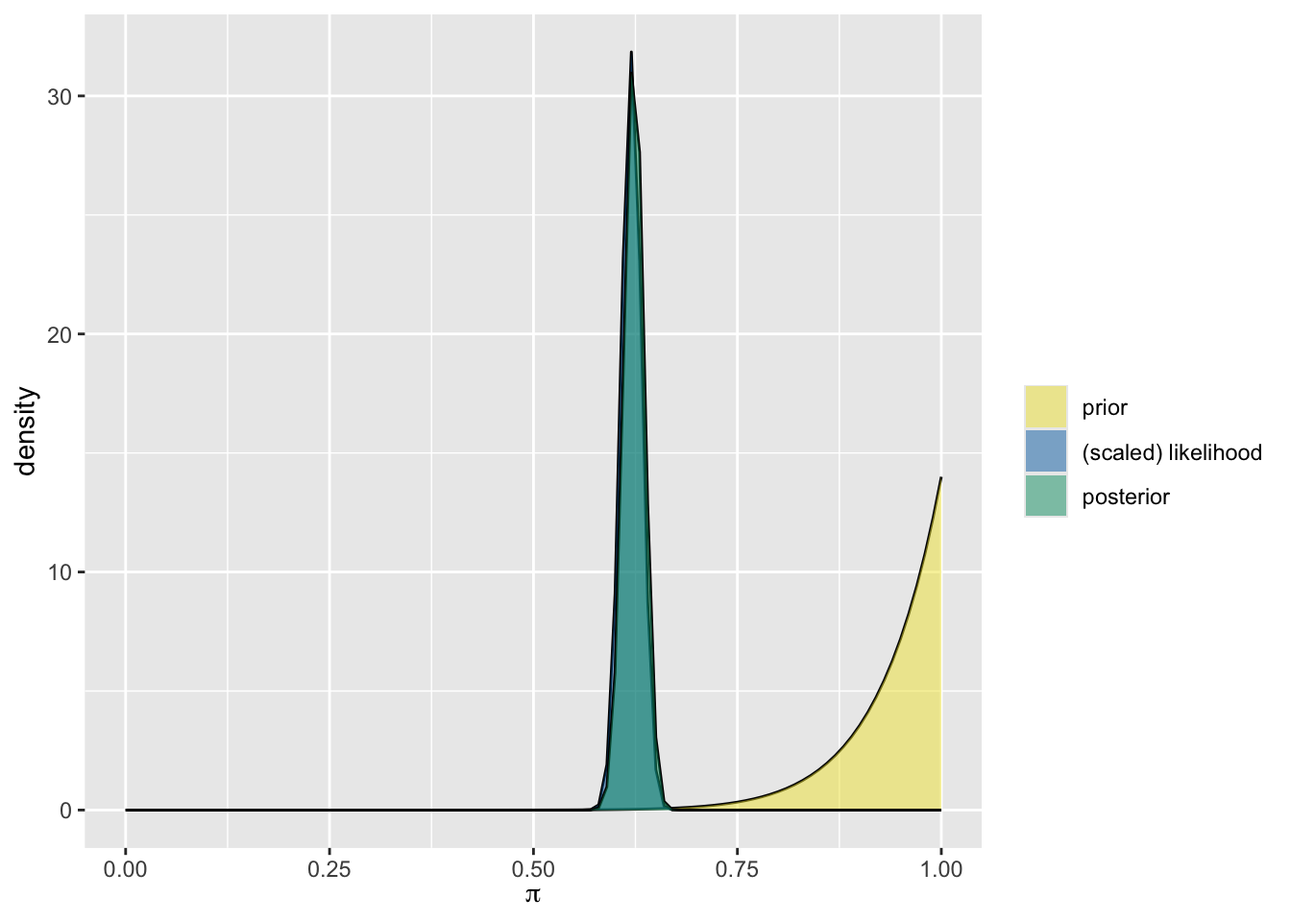
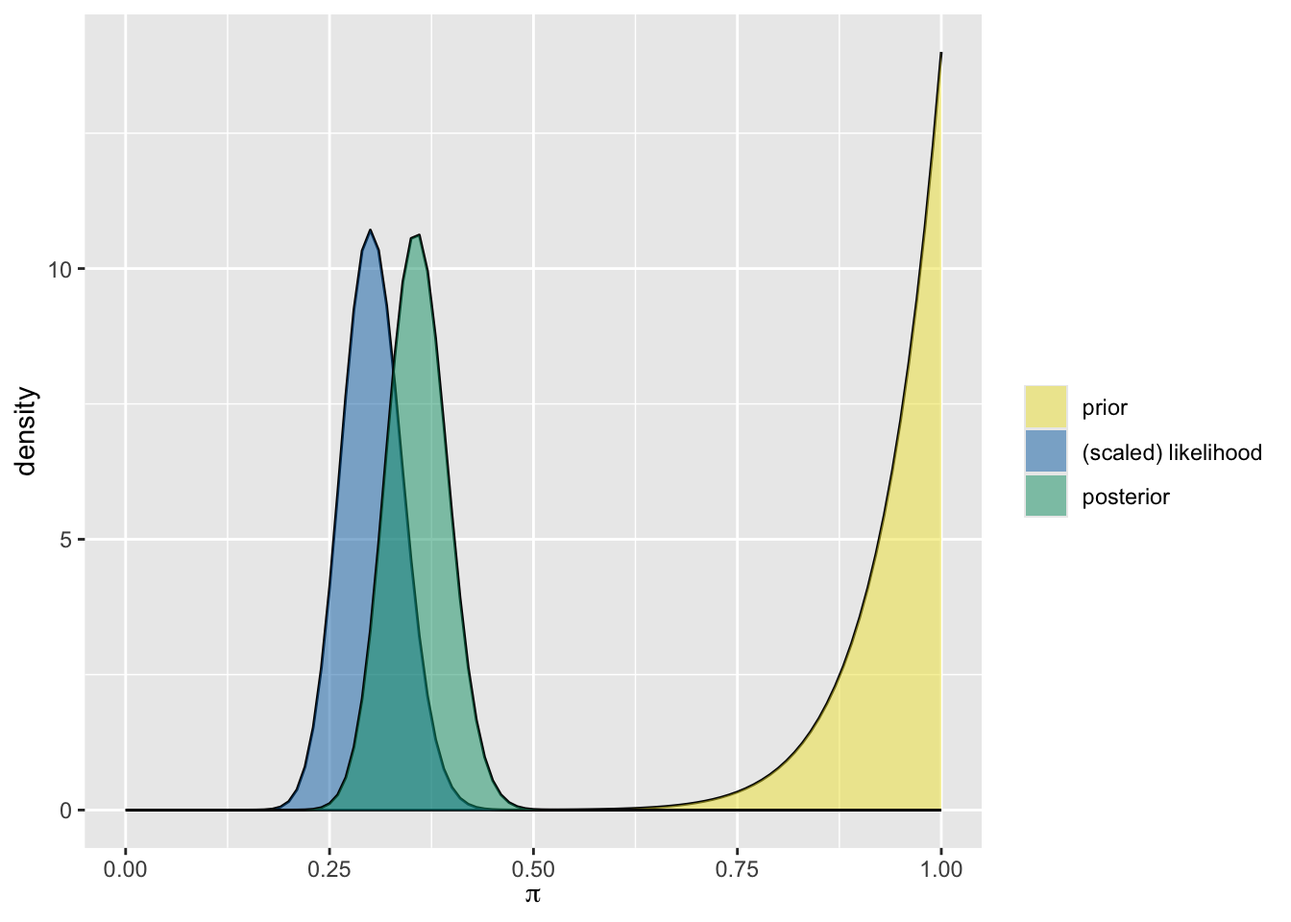
Trial iframe for survey form

diff --git a/course-materials/labs/beta_binomial_cnn_vs_onion/cnn_vs_onion_beta_binomial.html b/course-materials/labs/beta_binomial_cnn_vs_onion/cnn_vs_onion_beta_binomial.html
@@ -357,7 +357,7 @@ globalThis.qwebrCustomizedWebROptions = {
 };
 
 // Store cell data
-globalThis.qwebrCellDetails = [{"options":{"editor-max-height":"","editor-quick-suggestions":"false","label":"unnamed-chunk-1","output":"true","context":"setup","message":"true","dpi":72,"out-width":"700px","comment":"","editor-font-scale":"1","warning":"true","results":"markup","fig-cap":"","autorun":"true","editor-word-wrap":"true","read-only":"false","fig-width":7,"classes":"","fig-height":5,"out-height":""},"id":1,"code":"library(tidyverse)\nlibrary(gridExtra)\n\n#' Plot a Beta-Binomial Bayesian Model\n#'\n#' Consider a Beta-Binomial Bayesian model for parameter \\eqn{\\pi} with \n#' a Beta(alpha, beta) prior on \\eqn{\\pi} and Binomial likelihood with n trials\n#' and y successes. Given information on the prior (alpha and data) and data (y and n),\n#' this function produces a plot of any combination of the corresponding prior pdf, \n#' scaled likelihood function, and posterior pdf.  All three are included by default.\n#'\n#' @param alpha,beta positive shape parameters of the prior Beta model\n#' @param y observed number of successes\n#' @param n observed number of trials\n#' @param prior a logical value indicating whether the prior model should be plotted\n#' @param likelihood a logical value indicating whether the scaled likelihood should be plotted\n#' @param posterior a logical value indicating whether posterior model should be plotted\n#'\n#' @return a ggplot\n#' @export\n#' @import ggplot2\n#' @importFrom stats dbeta dbinom integrate\n#' @examples\n#'\n#' plot_beta_binomial(alpha = 1, beta = 13, y = 25, n = 50)\n#' plot_beta_binomial(alpha = 1, beta = 13, y = 25, n = 50, posterior = FALSE)\n#' \nplot_beta_binomial <- function (alpha,\n                                beta,\n                                y = NULL,\n                                n = NULL,\n                                prior = TRUE,\n                                likelihood = TRUE,\n                                posterior = TRUE){\n  if (is.null(y) | is.null(n))\n    warning(\"To visualize the posterior,\n            specify data y and n\")\n\n  g <- ggplot(data = data.frame(x = c(0, 1)), aes(x)) +\n    labs(x = expression(pi),\n         y = \"density\") +\n    scale_fill_manual(\"\",\n                      values = c(prior = \"#f0e442\",\n                                 `(scaled) likelihood` = \"#0071b2\",\n                                 posterior = \"#009e74\"),\n                      breaks = c(\"prior\",\n                                 \"(scaled) likelihood\",\n                                 \"posterior\"))\n  \n  if (prior == TRUE) {\n    g <- g +\n      stat_function(fun = dbeta,\n                           args = list(shape1 = alpha,\n                                       shape2 = beta)) +\n      stat_function(fun = dbeta,\n                    args = list(shape1 = alpha,\n                                shape2 = beta),\n                    geom = \"area\",\n                    alpha = 0.5,\n                    aes(fill = \"prior\"))\n    }\n\n  if (!is.null(y) & !is.null(n)) {\n    alpha_post <- alpha + y\n    beta_post <- beta + n - y\n    y_data <- y\n    like_scaled <- function(x) {\n      like_fun <- function(x) {\n        dbinom(x = y_data, size = n, prob = x)\n      }\n      scale_c <- integrate(like_fun, lower = 0, upper = 1)[[1]]\n      like_fun(x)/scale_c\n    }\n  }\n  if (!is.null(y) & !is.null(n) & (likelihood != FALSE)) {\n    g <- g +\n      stat_function(fun = like_scaled) +\n      stat_function(fun = like_scaled,\n                    geom = \"area\",\n                    alpha = 0.5,\n                    aes(fill = \"(scaled) likelihood\"))\n  }\n  if (!is.null(y) & !is.null(n) & posterior == TRUE) {\n    g <- g +\n      stat_function(fun = dbeta,\n                    args = list(shape1 = alpha_post,\n                                shape2 = beta_post)) +\n      stat_function(fun = dbeta,\n                    args = list(shape1 = alpha_post,\n                                shape2 = beta_post),\n                    geom = \"area\", alpha = 0.5,\n                    aes(fill = \"posterior\"))\n  }\n  g\n} # end of function\n\n#' @title Plot a Beta Model for \\eqn{\\pi} \n#'\n#' @description Plots the probability density function (pdf) for\n#' a Beta(alpha, beta) model of variable \\eqn{\\pi}.\n#'\n#' @param alpha,beta positive shape parameters of the Beta model\n#' @param mean,mode a logical value indicating whether to display the model mean and mode\n#'\n#' @return A density plot for the Beta model.\n#' @export\n#' @import ggplot2\n#' @importFrom stats dbeta\n#'\n#' @examples\n#' plot_beta(alpha = 1, beta = 12, mean = TRUE, mode = TRUE)\nplot_beta <- function(alpha, beta, mean = FALSE, mode = FALSE){\n  \n  \n  p <- ggplot(data = data.frame(x = c(0, 1)),\n              aes(x)) +\n    stat_function(fun = stats::dbeta,\n                  n = 101,\n                  args = list(shape1 = alpha,\n                              shape2=beta)) +\n    labs(x = expression(pi),\n         y = expression(paste(\"f(\",pi,\")\")))\n\n  \n  if (mean == TRUE & mode == FALSE){\n    mean <- alpha / (alpha + beta)\n    \n    p <- p +\n      geom_segment(aes(x = mean, y = 0, \n                       xend = mean, \n                       yend = dbeta(mean, alpha, beta),\n                       linetype = \"mean\")) +\n      scale_linetype_manual(values = c(mean = \"solid\")) +\n      theme(legend.title = element_blank())\n  }\n  \n  if (mean == FALSE & mode == TRUE){\n    mode <- (alpha - 1)/(alpha + beta - 2)\n    \n    p <- p +\n      geom_segment(aes(x = mode, y = 0, \n                       xend = mode, \n                       yend = dbeta(mode, alpha, beta), \n                       linetype = \"mode\"))+\n      scale_linetype_manual(values = c(mode = \"dashed\")) +\n      theme(legend.title = element_blank())\n    \n    \n  }\n  \n  if (mean == TRUE & mode == TRUE){\n    mean <- alpha / (alpha + beta)\n    mode <- (alpha - 1)/(alpha + beta - 2)\n    \n    \n    p <- p +\n      geom_segment(aes(x = mean, y = 0, \n                       xend = mean, \n                       yend = dbeta(mean, alpha, beta),\n                       linetype = \"mean\")) +\n      geom_segment(aes(x = mode, y = 0, \n                       xend = mode, \n                       yend = stats::dbeta(mode, alpha, beta), \n                       linetype = \"mode\"))+\n      scale_linetype_manual(values = c(mean = \"solid\", mode = \"dashed\")) +\n      theme(legend.title = element_blank())\n  }\np\n}\n\n#' @title Summarize a Beta-Binomial Bayesian model\n#' \n#' @description Consider a Beta-Binomial Bayesian model for parameter \\eqn{\\pi} with \n#' a Beta(alpha, beta) prior on \\eqn{\\pi} and Binomial likelihood with n trials\n#' and y successes. Given information on the prior (alpha and data) and data (y and n),\n#' this function summarizes the mean, mode, and variance of the \n#' prior and posterior Beta models of \\eqn{\\pi}.\n#' \n#' @param alpha,beta positive shape parameters of the prior Beta model\n#' @param y number of successes\n#' @param n number of trials\n#'\n#' @return a summary table\n#' @export\n#'\n#' @examples \n#' summarize_beta_binomial(alpha = 1, beta = 15, y = 25, n = 50)\nsummarize_beta_binomial <- function (alpha, \n                                     beta, \n                                     y = NULL, \n                                     n = NULL)\n{\n  if (is.null(y) | is.null(n))\n    warning(\"To summarize the posterior, \n            specify data y and n\")\n  beta_mean <- function(a, b) {\n    a/(a + b)\n  }\n  beta_mode <- function(a, b) {\n    if(a < 1 & b <1){\n      mode <- \"0 and 1\"\n    }else if (a <= 1 & b > 1){\n      mode <- 0\n    }else if (a > 1 & b < 1){\n      mode <- 1\n    }\n    else{\n      mode <- (a - 1)/(a + b - 2)\n    }\n  }\n  beta_var <- function(a, b) {\n    a * b/((a + b)^2 * (a + b + 1))\n  }\n  prior_mean <- beta_mean(alpha, beta)\n  prior_mode <- beta_mode(alpha, beta)\n  prior_var <- beta_var(alpha, beta)\n  prior_sd  <- sqrt(prior_var)\n  if (is.null(y) & is.null(n)) {\n    return(data.frame(model = c(\"prior\"), \n                      alpha = alpha,\n                      beta = beta, \n                      mean = prior_mean, \n                      mode = prior_mode,\n                      var = prior_var,\n                      sd = prior_sd))\n  }\n  else {\n    post_alpha <- y + alpha\n    post_beta <- n - y + beta\n    post_mean <- beta_mean(post_alpha, post_beta)\n    post_mode <- beta_mode(post_alpha, post_beta)\n    post_var  <- beta_var(post_alpha, post_beta)\n    post_sd   <- sqrt(post_var)\n    return(data.frame(model = c(\"prior\", \"posterior\"), \n                      alpha = c(alpha, post_alpha), \n                      beta = c(beta, post_beta), \n                      mean = c(prior_mean, post_mean), \n                      mode = c(prior_mode, post_mode), \n                      var = c(prior_var, post_var),\n                      sd = c(prior_sd, post_sd)))\n  }\n}\n\ncnn_onion <- data.frame(student = rep(1:100, each = 15), question = rep(1:15, times = 100), correct = rbinom(n = 15*100, size = 1, prob = 0.65), year = rep(2010:2024, each = 15, times = 100), institution = rep(\"Colby\", times = 15*100)) # We will replace this with actual data\n"},{"options":{"editor-max-height":"","editor-quick-suggestions":"false","label":"unnamed-chunk-2","output":"true","context":"interactive","message":"true","dpi":72,"out-width":"700px","comment":"","editor-font-scale":"1","warning":"true","results":"markup","fig-cap":"","autorun":"false","editor-word-wrap":"true","read-only":"false","fig-width":7,"classes":"","fig-height":5,"out-height":""},"id":2,"code":"my_prediction <- plot_beta(number_correct, number_wrong) +\n  labs(title = \"My Prediction\")\n\nmy_prediction"},{"options":{"editor-max-height":"","editor-quick-suggestions":"false","label":"unnamed-chunk-3","output":"true","context":"interactive","message":"true","dpi":72,"out-width":"700px","comment":"","editor-font-scale":"1","warning":"true","results":"markup","fig-cap":"","autorun":"false","editor-word-wrap":"true","read-only":"false","fig-width":7,"classes":"","fig-height":5,"out-height":""},"id":3,"code":"cnn_onion_2010 <- cnn_onion |>\n  filter(year == 2010,\n         student %in% c(1:10))"},{"options":{"editor-max-height":"","editor-quick-suggestions":"false","label":"unnamed-chunk-4","output":"true","context":"interactive","message":"true","dpi":72,"out-width":"700px","comment":"","editor-font-scale":"1","warning":"true","results":"markup","fig-cap":"","autorun":"false","editor-word-wrap":"true","read-only":"false","fig-width":7,"classes":"","fig-height":5,"out-height":""},"id":4,"code":"count(cnn_onion_2010, correct)"},{"options":{"editor-max-height":"","editor-quick-suggestions":"false","label":"unnamed-chunk-5","output":"true","context":"interactive","message":"true","dpi":72,"out-width":"700px","comment":"","editor-font-scale":"1","warning":"true","results":"markup","fig-cap":"","autorun":"false","editor-word-wrap":"true","read-only":"false","fig-width":7,"classes":"","fig-height":5,"out-height":""},"id":5,"code":"summarize_beta_binomial(___, ___, y = 930, n = 1500)"},{"options":{"editor-max-height":"","editor-quick-suggestions":"false","label":"unnamed-chunk-6","output":"true","context":"interactive","message":"true","dpi":72,"out-width":"700px","comment":"","editor-font-scale":"1","warning":"true","results":"markup","fig-cap":"","autorun":"false","editor-word-wrap":"true","read-only":"false","fig-width":7,"classes":"","fig-height":5,"out-height":""},"id":6,"code":"plot_beta_binomial(___, ___, y = 930, n = 1500)"}];
+globalThis.qwebrCellDetails = [{"id":1,"code":"library(tidyverse)\nlibrary(gridExtra)\n\n#' Plot a Beta-Binomial Bayesian Model\n#'\n#' Consider a Beta-Binomial Bayesian model for parameter \\eqn{\\pi} with \n#' a Beta(alpha, beta) prior on \\eqn{\\pi} and Binomial likelihood with n trials\n#' and y successes. Given information on the prior (alpha and data) and data (y and n),\n#' this function produces a plot of any combination of the corresponding prior pdf, \n#' scaled likelihood function, and posterior pdf.  All three are included by default.\n#'\n#' @param alpha,beta positive shape parameters of the prior Beta model\n#' @param y observed number of successes\n#' @param n observed number of trials\n#' @param prior a logical value indicating whether the prior model should be plotted\n#' @param likelihood a logical value indicating whether the scaled likelihood should be plotted\n#' @param posterior a logical value indicating whether posterior model should be plotted\n#'\n#' @return a ggplot\n#' @export\n#' @import ggplot2\n#' @importFrom stats dbeta dbinom integrate\n#' @examples\n#'\n#' plot_beta_binomial(alpha = 1, beta = 13, y = 25, n = 50)\n#' plot_beta_binomial(alpha = 1, beta = 13, y = 25, n = 50, posterior = FALSE)\n#' \nplot_beta_binomial <- function (alpha,\n                                beta,\n                                y = NULL,\n                                n = NULL,\n                                prior = TRUE,\n                                likelihood = TRUE,\n                                posterior = TRUE){\n  if (is.null(y) | is.null(n))\n    warning(\"To visualize the posterior,\n            specify data y and n\")\n\n  g <- ggplot(data = data.frame(x = c(0, 1)), aes(x)) +\n    labs(x = expression(pi),\n         y = \"density\") +\n    scale_fill_manual(\"\",\n                      values = c(prior = \"#f0e442\",\n                                 `(scaled) likelihood` = \"#0071b2\",\n                                 posterior = \"#009e74\"),\n                      breaks = c(\"prior\",\n                                 \"(scaled) likelihood\",\n                                 \"posterior\"))\n  \n  if (prior == TRUE) {\n    g <- g +\n      stat_function(fun = dbeta,\n                           args = list(shape1 = alpha,\n                                       shape2 = beta)) +\n      stat_function(fun = dbeta,\n                    args = list(shape1 = alpha,\n                                shape2 = beta),\n                    geom = \"area\",\n                    alpha = 0.5,\n                    aes(fill = \"prior\"))\n    }\n\n  if (!is.null(y) & !is.null(n)) {\n    alpha_post <- alpha + y\n    beta_post <- beta + n - y\n    y_data <- y\n    like_scaled <- function(x) {\n      like_fun <- function(x) {\n        dbinom(x = y_data, size = n, prob = x)\n      }\n      scale_c <- integrate(like_fun, lower = 0, upper = 1)[[1]]\n      like_fun(x)/scale_c\n    }\n  }\n  if (!is.null(y) & !is.null(n) & (likelihood != FALSE)) {\n    g <- g +\n      stat_function(fun = like_scaled) +\n      stat_function(fun = like_scaled,\n                    geom = \"area\",\n                    alpha = 0.5,\n                    aes(fill = \"(scaled) likelihood\"))\n  }\n  if (!is.null(y) & !is.null(n) & posterior == TRUE) {\n    g <- g +\n      stat_function(fun = dbeta,\n                    args = list(shape1 = alpha_post,\n                                shape2 = beta_post)) +\n      stat_function(fun = dbeta,\n                    args = list(shape1 = alpha_post,\n                                shape2 = beta_post),\n                    geom = \"area\", alpha = 0.5,\n                    aes(fill = \"posterior\"))\n  }\n  g\n} # end of function\n\n#' @title Plot a Beta Model for \\eqn{\\pi} \n#'\n#' @description Plots the probability density function (pdf) for\n#' a Beta(alpha, beta) model of variable \\eqn{\\pi}.\n#'\n#' @param alpha,beta positive shape parameters of the Beta model\n#' @param mean,mode a logical value indicating whether to display the model mean and mode\n#'\n#' @return A density plot for the Beta model.\n#' @export\n#' @import ggplot2\n#' @importFrom stats dbeta\n#'\n#' @examples\n#' plot_beta(alpha = 1, beta = 12, mean = TRUE, mode = TRUE)\nplot_beta <- function(alpha, beta, mean = FALSE, mode = FALSE){\n  \n  \n  p <- ggplot(data = data.frame(x = c(0, 1)),\n              aes(x)) +\n    stat_function(fun = stats::dbeta,\n                  n = 101,\n                  args = list(shape1 = alpha,\n                              shape2=beta)) +\n    labs(x = expression(pi),\n         y = expression(paste(\"f(\",pi,\")\")))\n\n  \n  if (mean == TRUE & mode == FALSE){\n    mean <- alpha / (alpha + beta)\n    \n    p <- p +\n      geom_segment(aes(x = mean, y = 0, \n                       xend = mean, \n                       yend = dbeta(mean, alpha, beta),\n                       linetype = \"mean\")) +\n      scale_linetype_manual(values = c(mean = \"solid\")) +\n      theme(legend.title = element_blank())\n  }\n  \n  if (mean == FALSE & mode == TRUE){\n    mode <- (alpha - 1)/(alpha + beta - 2)\n    \n    p <- p +\n      geom_segment(aes(x = mode, y = 0, \n                       xend = mode, \n                       yend = dbeta(mode, alpha, beta), \n                       linetype = \"mode\"))+\n      scale_linetype_manual(values = c(mode = \"dashed\")) +\n      theme(legend.title = element_blank())\n    \n    \n  }\n  \n  if (mean == TRUE & mode == TRUE){\n    mean <- alpha / (alpha + beta)\n    mode <- (alpha - 1)/(alpha + beta - 2)\n    \n    \n    p <- p +\n      geom_segment(aes(x = mean, y = 0, \n                       xend = mean, \n                       yend = dbeta(mean, alpha, beta),\n                       linetype = \"mean\")) +\n      geom_segment(aes(x = mode, y = 0, \n                       xend = mode, \n                       yend = stats::dbeta(mode, alpha, beta), \n                       linetype = \"mode\"))+\n      scale_linetype_manual(values = c(mean = \"solid\", mode = \"dashed\")) +\n      theme(legend.title = element_blank())\n  }\np\n}\n\n#' @title Summarize a Beta-Binomial Bayesian model\n#' \n#' @description Consider a Beta-Binomial Bayesian model for parameter \\eqn{\\pi} with \n#' a Beta(alpha, beta) prior on \\eqn{\\pi} and Binomial likelihood with n trials\n#' and y successes. Given information on the prior (alpha and data) and data (y and n),\n#' this function summarizes the mean, mode, and variance of the \n#' prior and posterior Beta models of \\eqn{\\pi}.\n#' \n#' @param alpha,beta positive shape parameters of the prior Beta model\n#' @param y number of successes\n#' @param n number of trials\n#'\n#' @return a summary table\n#' @export\n#'\n#' @examples \n#' summarize_beta_binomial(alpha = 1, beta = 15, y = 25, n = 50)\nsummarize_beta_binomial <- function (alpha, \n                                     beta, \n                                     y = NULL, \n                                     n = NULL)\n{\n  if (is.null(y) | is.null(n))\n    warning(\"To summarize the posterior, \n            specify data y and n\")\n  beta_mean <- function(a, b) {\n    a/(a + b)\n  }\n  beta_mode <- function(a, b) {\n    if(a < 1 & b <1){\n      mode <- \"0 and 1\"\n    }else if (a <= 1 & b > 1){\n      mode <- 0\n    }else if (a > 1 & b < 1){\n      mode <- 1\n    }\n    else{\n      mode <- (a - 1)/(a + b - 2)\n    }\n  }\n  beta_var <- function(a, b) {\n    a * b/((a + b)^2 * (a + b + 1))\n  }\n  prior_mean <- beta_mean(alpha, beta)\n  prior_mode <- beta_mode(alpha, beta)\n  prior_var <- beta_var(alpha, beta)\n  prior_sd  <- sqrt(prior_var)\n  if (is.null(y) & is.null(n)) {\n    return(data.frame(model = c(\"prior\"), \n                      alpha = alpha,\n                      beta = beta, \n                      mean = prior_mean, \n                      mode = prior_mode,\n                      var = prior_var,\n                      sd = prior_sd))\n  }\n  else {\n    post_alpha <- y + alpha\n    post_beta <- n - y + beta\n    post_mean <- beta_mean(post_alpha, post_beta)\n    post_mode <- beta_mode(post_alpha, post_beta)\n    post_var  <- beta_var(post_alpha, post_beta)\n    post_sd   <- sqrt(post_var)\n    return(data.frame(model = c(\"prior\", \"posterior\"), \n                      alpha = c(alpha, post_alpha), \n                      beta = c(beta, post_beta), \n                      mean = c(prior_mean, post_mean), \n                      mode = c(prior_mode, post_mode), \n                      var = c(prior_var, post_var),\n                      sd = c(prior_sd, post_sd)))\n  }\n}\n\ncnn_onion <- data.frame(student = rep(1:100, each = 15), question = rep(1:15, times = 100), correct = rbinom(n = 15*100, size = 1, prob = 0.65), year = rep(2010:2024, each = 15, times = 100), institution = rep(\"Colby\", times = 15*100)) # We will replace this with actual data\n","options":{"warning":"true","autorun":"true","classes":"","fig-height":5,"fig-cap":"","editor-word-wrap":"true","message":"true","dpi":72,"label":"unnamed-chunk-1","comment":"","output":"true","out-width":"700px","out-height":"","editor-font-scale":"1","editor-max-height":"","fig-width":7,"context":"setup","read-only":"false","editor-quick-suggestions":"false","results":"markup"}},{"id":2,"code":"my_prediction <- plot_beta(number_correct, number_wrong) +\n  labs(title = \"My Prediction\")\n\nmy_prediction","options":{"warning":"true","autorun":"false","classes":"","fig-height":5,"fig-cap":"","editor-word-wrap":"true","message":"true","dpi":72,"label":"unnamed-chunk-2","comment":"","output":"true","out-width":"700px","out-height":"","editor-font-scale":"1","editor-max-height":"","fig-width":7,"context":"interactive","read-only":"false","editor-quick-suggestions":"false","results":"markup"}},{"id":3,"code":"cnn_onion_2010 <- cnn_onion |>\n  filter(year == 2010,\n         student %in% c(1:10))\n\nsummary(cnn_onion_2010)","options":{"warning":"true","autorun":"false","classes":"","fig-height":5,"fig-cap":"","editor-word-wrap":"true","message":"true","dpi":72,"label":"unnamed-chunk-3","comment":"","output":"true","out-width":"700px","out-height":"","editor-font-scale":"1","editor-max-height":"","fig-width":7,"context":"interactive","read-only":"false","editor-quick-suggestions":"false","results":"markup"}},{"id":4,"code":"count(cnn_onion_2010, correct)","options":{"warning":"true","autorun":"false","classes":"","fig-height":5,"fig-cap":"","editor-word-wrap":"true","message":"true","dpi":72,"label":"unnamed-chunk-4","comment":"","output":"true","out-width":"700px","out-height":"","editor-font-scale":"1","editor-max-height":"","fig-width":7,"context":"interactive","read-only":"false","editor-quick-suggestions":"false","results":"markup"}},{"id":5,"code":"summarize_beta_binomial(___, ___, y = 45, n = 150)","options":{"warning":"true","autorun":"false","classes":"","fig-height":5,"fig-cap":"","editor-word-wrap":"true","message":"true","dpi":72,"label":"unnamed-chunk-5","comment":"","output":"true","out-width":"700px","out-height":"","editor-font-scale":"1","editor-max-height":"","fig-width":7,"context":"interactive","read-only":"false","editor-quick-suggestions":"false","results":"markup"}},{"id":6,"code":"plot_beta_binomial(___, ___, y = 45, n = 150)","options":{"warning":"true","autorun":"false","classes":"","fig-height":5,"fig-cap":"","editor-word-wrap":"true","message":"true","dpi":72,"label":"unnamed-chunk-6","comment":"","output":"true","out-width":"700px","out-height":"","editor-font-scale":"1","editor-max-height":"","fig-width":7,"context":"interactive","read-only":"false","editor-quick-suggestions":"false","results":"markup"}}];
 
 </script>
 <script type="module">
@@ -1900,7 +1900,8 @@ globalThis.qwebrCreateMonacoEditorInstance = function (cellData) {
 <h2 class="anchored" data-anchor-id="cnn-vs-the-onion">CNN vs The Onion</h2>
 <p>CNN (the Cable News Network) is widely considered a reputable news source. The Onion, on the other hand, is (according to Wikipedia) “an American news satire organization. It is an entertainment newspaper and a website featuring satirical articles reporting on international, national, and local news.” Another way of putting it - The Onion is “fake news” for entertainment purposes.</p>
 <p>In this exercise you will assess your ability to determine real news stories published on <a href="cnn.com">cnn.com</a> from fake news stories published on <a href="theonion.com">theonion.com</a>.</p>
-<p>Each of you will take a quiz consisting of 15 questions. Each question has the same possible answers: CNN or The Onion.</p>
+<p>Each of you will take a quiz consisting of 15 questions. Each question has the same possible answers: CNN or The Onion. You can take the quiz through our <a href="https://forms.gle/eVvFHZQwvtsBYa9r9">google form</a>:</p>
+<iframe src="https://docs.google.com/forms/d/e/1FAIpQLSeNADV2SfZbCNZRcwZ_2oaP1eBh8rgXKV_WKxXyQR-5QGEBlA/viewform?embedded=true" width="640" height="640" frameborder="0" marginheight="0" marginwidth="0">Loading…</iframe>
 </section>
 <section id="learning-objectives" class="level2">
 <h2 class="anchored" data-anchor-id="learning-objectives">Learning Objectives</h2>
@@ -1998,10 +1999,10 @@ globalThis.qwebrCreateMonacoEditorInstance = function (cellData) {
 <div class="cell-output cell-output-stdout">
 <pre><code>  student question correct year institution
 1       1        1       1 2010       Colby
-2       1        2       0 2010       Colby
-3       1        3       1 2010       Colby
-4       1        4       1 2010       Colby
-5       1        5       1 2010       Colby
+2       1        2       1 2010       Colby
+3       1        3       0 2010       Colby
+4       1        4       0 2010       Colby
+5       1        5       0 2010       Colby
 6       1        6       1 2010       Colby</code></pre>
 </div>
 </div>
@@ -2013,15 +2014,15 @@ globalThis.qwebrCreateMonacoEditorInstance = function (cellData) {
 <section id="the-good-guesser" class="level3">
 <h3 class="anchored" data-anchor-id="the-good-guesser">The Good Guesser</h3>
 <div class="cell">
-<div class="sourceCode cell-code" id="cb4"><pre class="sourceCode r code-with-copy"><code class="sourceCode r"><span id="cb4-1"><a href="#cb4-1" aria-hidden="true" tabindex="-1"></a><span class="fu">summarize_beta_binomial</span>(<span class="dv">14</span>, <span class="dv">1</span>, <span class="at">y =</span> <span class="dv">930</span>, <span class="at">n =</span> <span class="dv">1500</span>)</span></code><button title="Copy to Clipboard" class="code-copy-button"><i class="bi"></i></button></pre></div>
+<div class="sourceCode cell-code" id="cb4"><pre class="sourceCode r code-with-copy"><code class="sourceCode r"><span id="cb4-1"><a href="#cb4-1" aria-hidden="true" tabindex="-1"></a><span class="fu">summarize_beta_binomial</span>(<span class="dv">14</span>, <span class="dv">1</span>, <span class="at">y =</span> <span class="dv">45</span>, <span class="at">n =</span> <span class="dv">150</span>)</span></code><button title="Copy to Clipboard" class="code-copy-button"><i class="bi"></i></button></pre></div>
 <div class="cell-output cell-output-stdout">
-<pre><code>      model alpha beta      mean     mode          var         sd
-1     prior    14    1 0.9333333 1.000000 0.0038888889 0.06236096
-2 posterior   944  571 0.6231023 0.623265 0.0001549115 0.01244634</code></pre>
+<pre><code>      model alpha beta      mean      mode         var         sd
+1     prior    14    1 0.9333333 1.0000000 0.003888889 0.06236096
+2 posterior    59  106 0.3575758 0.3558282 0.001383827 0.03719983</code></pre>
 </div>
 </div>
 <div class="cell" data-layout-align="center">
-<div class="sourceCode cell-code" id="cb6"><pre class="sourceCode r code-with-copy"><code class="sourceCode r"><span id="cb6-1"><a href="#cb6-1" aria-hidden="true" tabindex="-1"></a><span class="fu">plot_beta_binomial</span>(<span class="dv">14</span>, <span class="dv">1</span>, <span class="at">y =</span> <span class="dv">930</span>, <span class="at">n =</span> <span class="dv">1500</span>)</span></code><button title="Copy to Clipboard" class="code-copy-button"><i class="bi"></i></button></pre></div>
+<div class="sourceCode cell-code" id="cb6"><pre class="sourceCode r code-with-copy"><code class="sourceCode r"><span id="cb6-1"><a href="#cb6-1" aria-hidden="true" tabindex="-1"></a><span class="fu">plot_beta_binomial</span>(<span class="dv">14</span>, <span class="dv">1</span>, <span class="at">y =</span> <span class="dv">45</span>, <span class="at">n =</span> <span class="dv">150</span>)</span></code><button title="Copy to Clipboard" class="code-copy-button"><i class="bi"></i></button></pre></div>
 <div class="cell-output-display">
 <div class="quarto-figure quarto-figure-center">
 <figure class="figure">
@@ -2034,15 +2035,15 @@ globalThis.qwebrCreateMonacoEditorInstance = function (cellData) {
 <section id="the-unpredictable-guesser" class="level3">
 <h3 class="anchored" data-anchor-id="the-unpredictable-guesser">The Unpredictable Guesser</h3>
 <div class="cell">
-<div class="sourceCode cell-code" id="cb7"><pre class="sourceCode r code-with-copy"><code class="sourceCode r"><span id="cb7-1"><a href="#cb7-1" aria-hidden="true" tabindex="-1"></a><span class="fu">summarize_beta_binomial</span>(<span class="dv">1</span>, <span class="dv">1</span>, <span class="at">y =</span> <span class="dv">930</span>, <span class="at">n =</span> <span class="dv">1500</span>)</span></code><button title="Copy to Clipboard" class="code-copy-button"><i class="bi"></i></button></pre></div>
+<div class="sourceCode cell-code" id="cb7"><pre class="sourceCode r code-with-copy"><code class="sourceCode r"><span id="cb7-1"><a href="#cb7-1" aria-hidden="true" tabindex="-1"></a><span class="fu">summarize_beta_binomial</span>(<span class="dv">1</span>, <span class="dv">1</span>, <span class="at">y =</span> <span class="dv">45</span>, <span class="at">n =</span> <span class="dv">150</span>)</span></code><button title="Copy to Clipboard" class="code-copy-button"><i class="bi"></i></button></pre></div>
 <div class="cell-output cell-output-stdout">
-<pre><code>      model alpha beta      mean mode          var         sd
-1     prior     1    1 0.5000000  NaN 0.0833333333 0.28867513
-2 posterior   931  571 0.6198402 0.62 0.0001567787 0.01252113</code></pre>
+<pre><code>      model alpha beta      mean mode         var         sd
+1     prior     1    1 0.5000000  NaN 0.083333333 0.28867513
+2 posterior    46  106 0.3026316  0.3 0.001379384 0.03714006</code></pre>
 </div>
 </div>
 <div class="cell" data-layout-align="center">
-<div class="sourceCode cell-code" id="cb9"><pre class="sourceCode r code-with-copy"><code class="sourceCode r"><span id="cb9-1"><a href="#cb9-1" aria-hidden="true" tabindex="-1"></a><span class="fu">plot_beta_binomial</span>(<span class="dv">1</span>, <span class="dv">1</span>, <span class="at">y =</span> <span class="dv">930</span>, <span class="at">n =</span> <span class="dv">1500</span>)</span></code><button title="Copy to Clipboard" class="code-copy-button"><i class="bi"></i></button></pre></div>
+<div class="sourceCode cell-code" id="cb9"><pre class="sourceCode r code-with-copy"><code class="sourceCode r"><span id="cb9-1"><a href="#cb9-1" aria-hidden="true" tabindex="-1"></a><span class="fu">plot_beta_binomial</span>(<span class="dv">1</span>, <span class="dv">1</span>, <span class="at">y =</span> <span class="dv">45</span>, <span class="at">n =</span> <span class="dv">150</span>)</span></code><button title="Copy to Clipboard" class="code-copy-button"><i class="bi"></i></button></pre></div>
 <div class="cell-output-display">
 <div class="quarto-figure quarto-figure-center">
 <figure class="figure">
@@ -2055,15 +2056,15 @@ globalThis.qwebrCreateMonacoEditorInstance = function (cellData) {
 <section id="the-poor-guesser" class="level3">
 <h3 class="anchored" data-anchor-id="the-poor-guesser">The Poor Guesser</h3>
 <div class="cell">
-<div class="sourceCode cell-code" id="cb10"><pre class="sourceCode r code-with-copy"><code class="sourceCode r"><span id="cb10-1"><a href="#cb10-1" aria-hidden="true" tabindex="-1"></a><span class="fu">summarize_beta_binomial</span>(<span class="dv">4</span>, <span class="dv">11</span>, <span class="at">y =</span> <span class="dv">930</span>, <span class="at">n =</span> <span class="dv">1500</span>)</span></code><button title="Copy to Clipboard" class="code-copy-button"><i class="bi"></i></button></pre></div>
+<div class="sourceCode cell-code" id="cb10"><pre class="sourceCode r code-with-copy"><code class="sourceCode r"><span id="cb10-1"><a href="#cb10-1" aria-hidden="true" tabindex="-1"></a><span class="fu">summarize_beta_binomial</span>(<span class="dv">4</span>, <span class="dv">11</span>, <span class="at">y =</span> <span class="dv">45</span>, <span class="at">n =</span> <span class="dv">150</span>)</span></code><button title="Copy to Clipboard" class="code-copy-button"><i class="bi"></i></button></pre></div>
 <div class="cell-output cell-output-stdout">
-<pre><code>      model alpha beta      mean      mode          var         sd
-1     prior     4   11 0.2666667 0.2307692 0.0122222222 0.11055416
-2 posterior   934  581 0.6165017 0.6166557 0.0001559547 0.01248818</code></pre>
+<pre><code>      model alpha beta      mean      mode         var         sd
+1     prior     4   11 0.2666667 0.2307692 0.012222222 0.11055416
+2 posterior    49  116 0.2969697 0.2944785 0.001257703 0.03546411</code></pre>
 </div>
 </div>
 <div class="cell" data-layout-align="center">
-<div class="sourceCode cell-code" id="cb12"><pre class="sourceCode r code-with-copy"><code class="sourceCode r"><span id="cb12-1"><a href="#cb12-1" aria-hidden="true" tabindex="-1"></a><span class="fu">plot_beta_binomial</span>(<span class="dv">4</span>, <span class="dv">11</span>, <span class="at">y =</span> <span class="dv">930</span>, <span class="at">n =</span> <span class="dv">1500</span>)</span></code><button title="Copy to Clipboard" class="code-copy-button"><i class="bi"></i></button></pre></div>
+<div class="sourceCode cell-code" id="cb12"><pre class="sourceCode r code-with-copy"><code class="sourceCode r"><span id="cb12-1"><a href="#cb12-1" aria-hidden="true" tabindex="-1"></a><span class="fu">plot_beta_binomial</span>(<span class="dv">4</span>, <span class="dv">11</span>, <span class="at">y =</span> <span class="dv">45</span>, <span class="at">n =</span> <span class="dv">150</span>)</span></code><button title="Copy to Clipboard" class="code-copy-button"><i class="bi"></i></button></pre></div>
 <div class="cell-output-display">
 <div class="quarto-figure quarto-figure-center">
 <figure class="figure">
